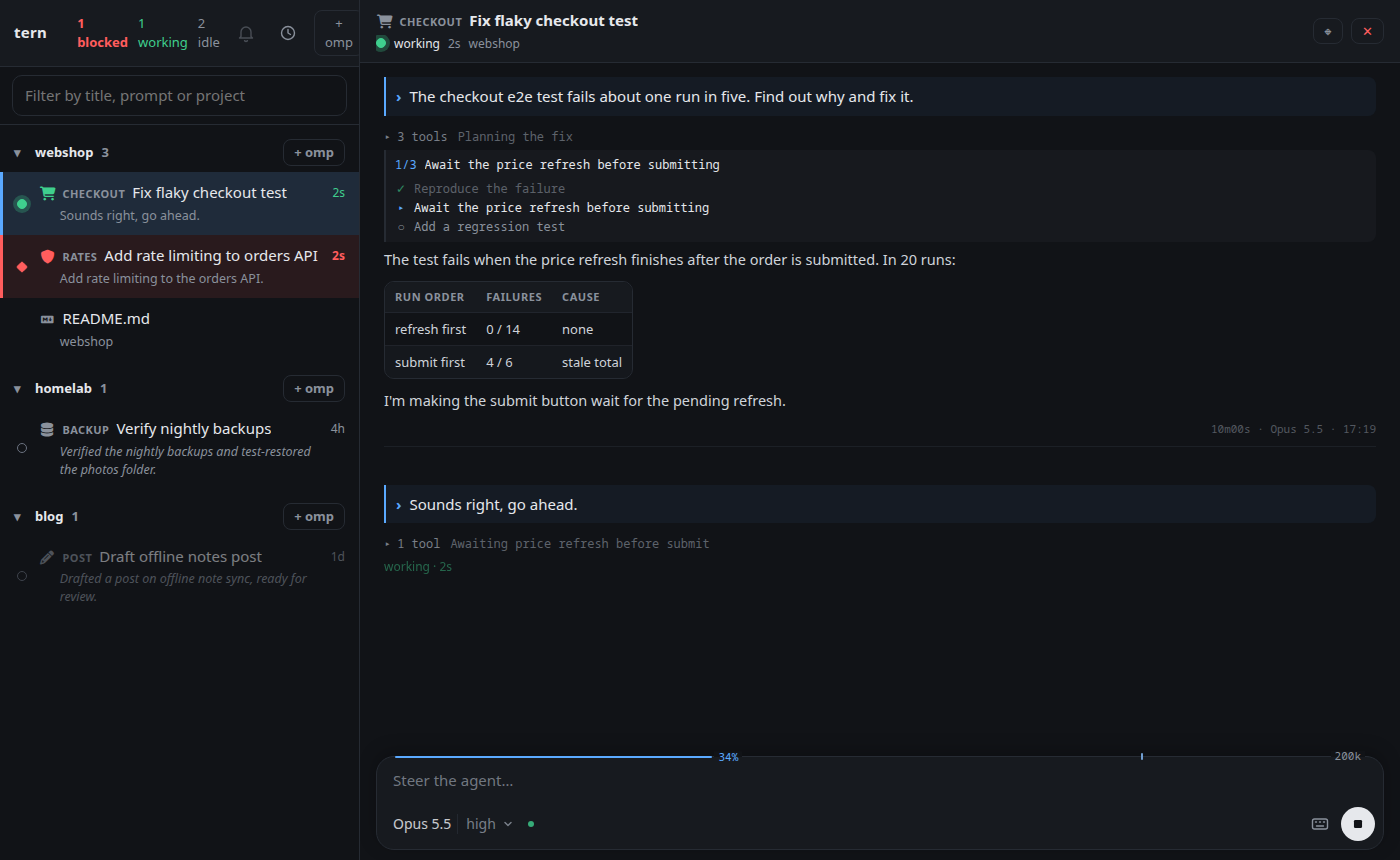
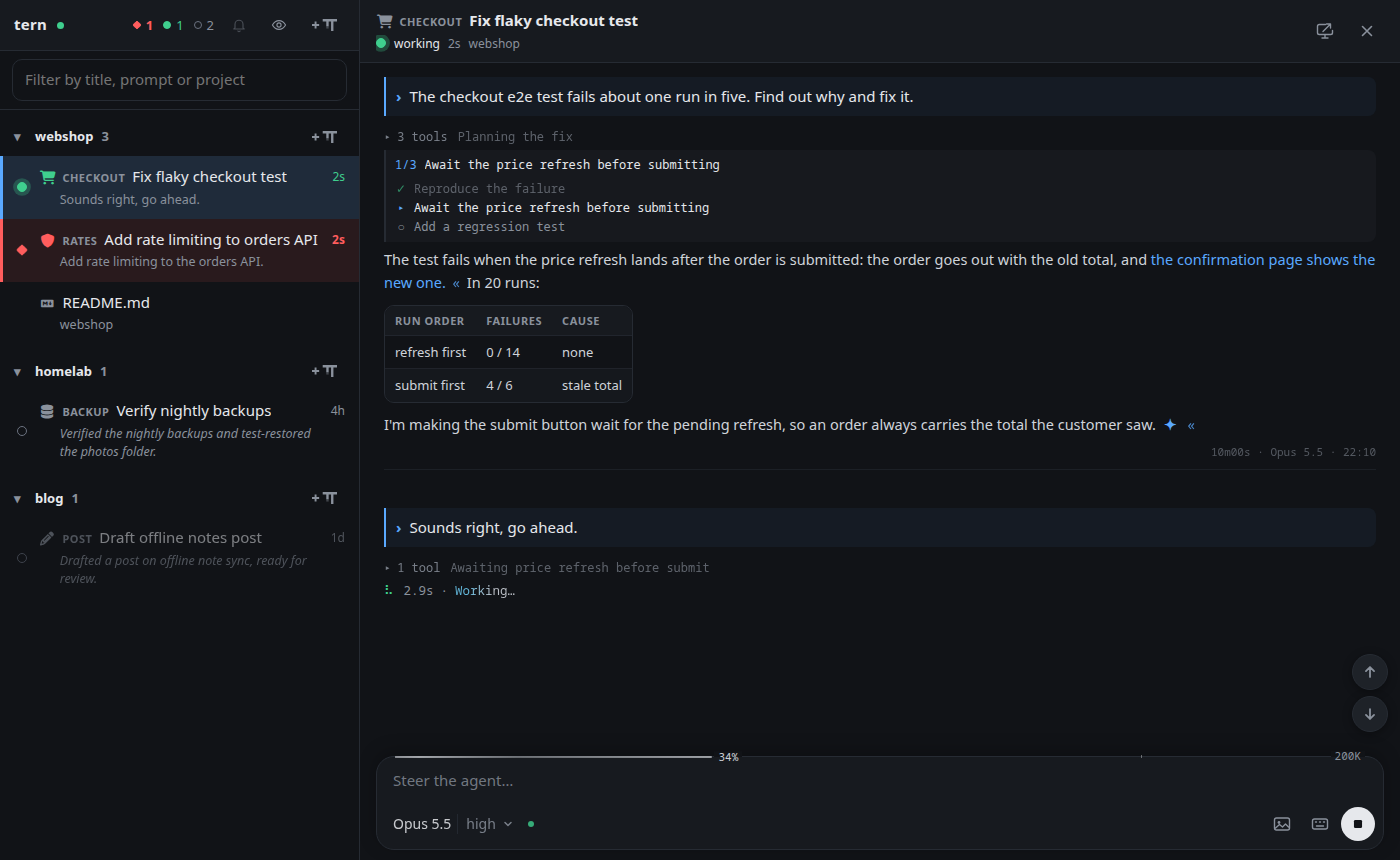
docs: regenerate README screenshots; session shots show a stretchtext reply
An open stretch with a closed one inside it, and an open stretch ending in ✦ and «.

diff --git a/docs/screenshots.ts b/docs/screenshots.ts
@@ -10,6 +10,7 @@ import { obj } from "../lib/json";
 import { buildId } from "../lib/extension-check";
 import { Extension } from "../test/server-harness";
 import { CHROMIUM, closeBrowser, openApp, startSandbox, until } from "../test/e2e/helpers";
+import { parse, stretches } from "../web/stretch-core";
 
 if (!CHROMIUM) throw new Error("no headless Chromium: install Playwright's chromium_headless_shell or set TERN_AWUI_CHROMIUM");
 
@@ -17,6 +18,16 @@ const OUT = resolve(import.meta.dir);
 const EXT = resolve(import.meta.dir, "../omp-extension/tern-mobile.ts");
 const NOW = Date.now();
 const min = 60_000;
+/**
+ * The checkout session's findings, written as omp-stretch writes replies: the first stretch is drawn
+ * open with a closed stretch inside it, the last one open with its ✦ (see `stretch` below).
+ */
+const REPLY_AT = NOW - 30 * min;
+const REPLY =
+  "{{The test fails when the price refresh lands after the order is submitted.|The test fails when the price refresh lands after the order is submitted: " +
+  "the order goes out with the old total, and {{the confirmation page shows the new one.|the confirmation page, which reloads the cart, shows the new one, so the two totals disagree.}}}} In 20 runs:\n\n" +
+  "| Run order | Failures | Cause |\n|---|---|---|\n| refresh first | 0 / 14 | none |\n| submit first | 4 / 6 | stale total |\n\n" +
+  "{{I'm making the submit button wait for the pending refresh.|I'm making the submit button wait for the pending refresh, so an order always carries the total the customer saw.}}";
 
 type Part = Record<string, unknown>;
 /** A transcript with timestamps relative to now, shaped like omp's session JSONL. */
@@ -64,11 +75,8 @@ const s = await startSandbox((s) => {
     { content: "Await the price refresh before submitting", status: "in_progress" },
     { content: "Add a regression test", status: "pending" },
   ] }] });
-  checkout.assistant([say(
-    "The test fails when the price refresh finishes after the order is submitted. In 20 runs:\n\n" +
-    "| Run order | Failures | Cause |\n|---|---|---|\n| refresh first | 0 / 14 | none |\n| submit first | 4 / 6 | stale total |\n\n" +
-    "I'm making the submit button wait for the pending refresh.",
-  )], NOW - 30 * min);
+  // An omp-stretch reply: the first paragraph's stretch drawn open (see `stretch` below), the last one closed.
+  checkout.assistant([say(REPLY)], REPLY_AT);
   checkout.user("Sounds right, go ahead.", NOW - 3 * min);
   checkout.assistant([tool("t4", "edit", { i: "Awaiting price refresh before submit", path: "src/checkout.tsx" })], NOW - 2 * min, "toolUse");
 
@@ -115,6 +123,11 @@ const agents: [string, Log, string, Part][] = [
 for (const [pane, log, status, extra] of agents) {
   const ext = new Extension(s, pane, "anthropic/claude-opus-5-5");
   Object.assign(ext.snapshot, { sessionId: log.id, leaf: log.leaf, status, protocol: PROTOCOL, build, ...extra });
+  if (log === checkout) {
+    // Outermost first: [first, the one inside it, last]; the inner one stays closed.
+    const [first, , last] = stretches(parse(REPLY)).map((s) => s.key);
+    ext.snapshot.stretch = { off: false, deepen: true, open: { [`${REPLY_AT}.0`]: [first, last] }, answers: {}, running: {} };
+  }
   await ext.connect();
 }
 s.signal();
